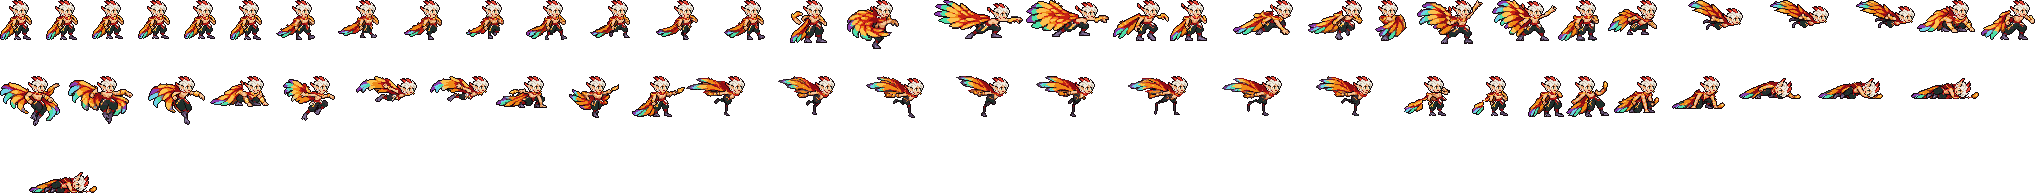
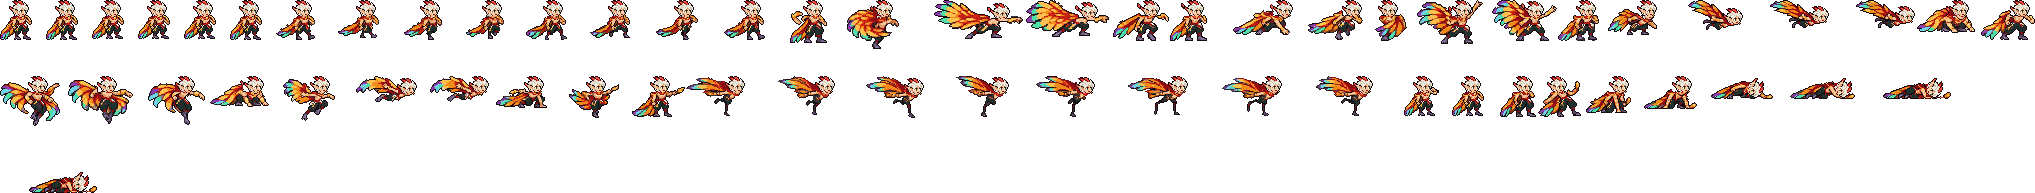
Rakan hit: the idle's body with Codex's raised fist, 1 square back
The re-seated hit still showed Codex's own narrower body and a stick-like cloak beside the
legs (the user: 「这里你真不修吗」, 「身体都变形了」). By the user's rule (a casting body is the
idle's body, only the moved limbs from Codex) both hit frames are the idle: frame 1 trades the
hand and feather at the chin for Codex's raised forearm and fist (shoulder filled), frame 2 is
the idle; both recoil one square.

Changed region(s): [[0.6811, 0.3731, 0.9907, 0.6218]]

diff --git a/tools/art/fix_rakan_strips.py b/tools/art/fix_rakan_strips.py
@@ -34,11 +34,13 @@ stay. Fixes, in order:
      in one column through the run while the body swayed under it - 1-2 squares left of where the idle's collar,
      shoulders and chest sit under the chin, a row lower in 3 frames - so the head is moved onto the body (SEAT, the
      offsets measured per frame against the idle under the chin; tools/art/import_native.py no longer re-steadies
-     the run on the head, which would move the body back). In the hit Codex shifted the whole upper body 5-7 squares
-     right of the legs (the design's own legs, pasted): the body - all but the head and the idle's legs - goes back
-     over the legs where the idle's chest is, and the head where the idle's head is; Codex's arms, fist and cloak
-     move with the body (the cloak flares back from the legs, as Codex drew it). Done first, so the clean-ups below
-     see the moved head.
+     the run on the head, which would move the body back). Done first, so the clean-ups below see the moved head.
+  8. HIT (「受击的时候身体和腿几乎分离」, then 「这里你真不修吗」 on the cloak and 「身体都变形了」): Codex shifted the
+     whole upper body 5-7 squares right of the legs (the design's own legs, pasted) and drew its own narrower body
+     and cloak; moved back over the legs they still read as another, deformed body. By the user's rule (a casting
+     body is the idle's body, only the moved limbs from Codex) the hit frames are the idle: frame 1 with Codex's
+     raised forearm and fist (HIT_ARM, taken after moving Codex's body back over the legs, SEAT) in place of the
+     idle's hand and feather at the chin (HIT_HAND), frame 2 the idle as it is; both 1 square back (HIT_RECOIL).
 --check compares the result with the committed strips instead of writing them; --review DIR writes, per tag, the
 delivery and the fixed frames side by side at 4x with every changed square marked.
 """
@@ -95,17 +97,24 @@ ARMS = {
 # (tag, frame index): {"head": (dx, dy)} moves the pasted head, {"body": (dx, dy)} everything but the head and the idle's
 # own legs (rows LEGS_ROW and lower, columns from LEGS_LEFT left of the pivot, that equal the idle frame's at the same
 # place from the pivot: Codex pasted the design's legs; its cloak beside them is its own, matching here and there by
-# chance). The cloak moves with the body and flares back from the legs as Codex drew it (filling the gap with the idle's
-# own cloak edge stood a stray red-orange strip beside the leg - the user: 「这里是什么？？」).
+# chance)
 SEAT = {
     ("run", 0): {"head": (-1, 0)}, ("run", 1): {"head": (-1, 1)}, ("run", 2): {"head": (-1, 0)},
     ("run", 3): {"head": (0, 1)}, ("run", 4): {"head": (-1, 0)}, ("run", 5): {"head": (-1, 1)},
     ("run", 6): {"head": (-2, 0)}, ("run", 7): {"head": (-2, 0)},
     ("hit", 0): {"body": (-5, 0), "head": (-3, -1)},
-    ("hit", 1): {"body": (-6, 1), "head": (-7, 2)},
 }
 LEGS_ROW = 60
 LEGS_LEFT = 8
+# the hit frames from the idle: (x0, x1, y0, y1) boxes from the pivot (x1, y1 excluded). HIT_HAND: the idle's right hand
+# and the golden feather at the chin, cleared in frame 1; HIT_ARM: Codex's raised forearm and fist (frame 1, moved
+# back over the legs by SEAT) laid in their place
+HIT_HAND = [(3, 12, -13, -8), (3, 12, -8, -3)]
+HIT_ARM = [(2, 14, -17, -9)]
+HIT_RECOIL = -1
+# hit frame 1, after the recoil (cell squares): the shoulder between the idle's chest and Codex's forearm, where the
+# ground showed through (skin, like the Q 4-5 upper arms)
+HIT_PATCH = [(50, 64, "E"), (50, 65, "E"), (51, 64, "H"), (51, 65, "H"), (52, 64, "H"), (52, 65, "G")]
 
 
 def _col(x, ys, ch):
@@ -427,7 +436,27 @@ def build():
                 legs[:, :px - LEGS_LEFT] = False
                 n, hm = fix_seat(f, hm, SEAT[(tag, k)], legs)
                 notes.append(f"seat {SEAT[(tag, k)]} ({n} squares)")
-            if tag != "idle" and hm is not None:
+            if tag == "hit":
+                px, py = cells["tags"][tag][k]["pivot"]
+                ref = np.roll(np.roll(idle[0], py - idle[1][1], 0), px - idle[1][0], 1)
+                g = f.copy()
+                f[:] = ref
+                if k == 0:
+                    for x0, x1, y0, y1 in HIT_HAND:
+                        f[py + y0:py + y1, px + x0:px + x1] = 0
+                    for x0, x1, y0, y1 in HIT_ARM:
+                        box = g[py + y0:py + y1, px + x0:px + x1]
+                        m = box[..., 3] > 0
+                        f[py + y0:py + y1, px + x0:px + x1][m] = box[m]
+                f[:] = np.roll(f, HIT_RECOIL, 1)
+                if k == 0:
+                    for y, x, ch in HIT_PATCH:
+                        f[y, x] = (*LETTERS[ch], 255)
+                hm = np.roll(find_head(ref, head, [(man["idle"]["frames"][0]["head_rect"][0] + px - idle[1][0],
+                                                   man["idle"]["frames"][0]["head_rect"][1] + py - idle[1][1])]),
+                             HIT_RECOIL, 1)
+                notes.append("the idle" + (" + Codex's raised fist" if k == 0 else "") + f", {HIT_RECOIL:+d} back")
+            if tag not in ("idle", "hit") and hm is not None:
                 g = fix_halo(f, hm)
                 if g:
                     notes.append(f"halo -{g}")
@@ -438,11 +467,11 @@ def build():
             if tag == "dead" and hm is not None and k >= 4:
                 gone, n = fix_dead_gap(f, hm, DEAD_CLEAR.get(k, []))
                 notes.append(f"remnant -{gone}, gap +{n}")
-            if tag != "idle":
+            if tag not in ("idle", "hit"):
                 b = fix_black(f)
                 if b:
                     notes.append(f"black -{b}")
-            if tag != "idle":
+            if tag not in ("idle", "hit"):
                 h = fix_holes(f, hm)
                 if h:
                     notes.append(f"holes +{h}")

diff --git a/README.md b/README.md
@@ -2235,7 +2235,7 @@ python tools/art/preview_rakan.py
 
 - 原画和造型：Codex 画了 A（英雄联盟的待机，披风拖在地上）、B（舞者站姿）两张原画，用户先说 B，又改「用A」。Codex 自己删到 40 行的两版删掉了脸和披风上的 12 行 9 列（眼睛挤扁、披风变短），改用它的生图草稿：按自己的格子读回是 52 × 39 格，按区域删整行整列（冠羽 7 → 4 行，发顶到下巴 13 → 12 行，眉眼嘴的行和脸的列不删）到 40 × 32；颜色按 CIELAB 归到 Codex 的色板。
 - 动作参考（`poses.json`）：镜头 yaw 60、pitch 20，镜像；头 2.2 倍、腿 0.85 倍；高度 41，112 × 88 的格子；只藏玫瑰（`Rakan_Base_Rose_Mat`：`pose_ref.py` 的 `--hide-submeshes` 会把他的羽毛披风 `Rakan_Base_Wing_Mat` 也藏掉）。待机 `Rakan_Idle01`，移动 `Rakan_Run`（8 帧 × 100 ms），普攻 `Attack1`（第 3 帧甩出，第 12 tick），Q `Spell1`（第 4 帧，第 10 tick），W 冲刺 4 帧，W 落地旋升 `W_activate` 6 帧 × 67 ms（第 3 帧击飞，第 8 tick），E 3 帧，E 落地 `E_to_Idle` 3 帧，R `Spell4_Run` 8 帧 × 107 ms，死亡 `Death` 8 帧。
-- 动作的修复（`fix_rakan_strips.py`，Codex 的交付留在 [`codex_strips/`](assets/source/rakan/codex_strips/)）：Codex 把造型的头贴在它自己画的头上，头旁边露出它自己的耳尖和头发（播放时一闪一闪），这些碎块去掉；后颈和披风、高领之间透出地面的三角补成高领的深红；Q 第 4、5 帧举到脸边的前臂没有上臂（手悬空），补上从肩到肘的上臂；R 冲刺的腿照英雄联盟画得又细又黑，宽度不动，纯黑的腿条里填上绑腿色，膝下补两格待机和移动都有的红带，后大腿 3 行厚的黑块中间填裤子色；死亡第 5–8 帧倒下的头旁边立着 Codex 原来那只头的耳朵和头发（像一根小棍），去掉，头和肩之间 1–3 格的缝补成高领的深红。用户在游戏里看到两处：「移动的时候头和身体不协调」——Codex 把移动 8 帧的头钉在同一列，身体在下面晃，比待机时下巴和高领的相对位置偏左 1–2 格、有 3 帧低一行，按每帧量出的偏移把头挪回身体上（导入时移动不再按头对齐，头跟着身体走）；「受击的时候身体和腿几乎分离」——Codex 把受击 2 帧的整个上身往右推了 5–7 格，腿是贴上去的造型原腿，上身挪回待机时在腿上的位置，头回到待机的位置，它画的抬拳和披风跟着上身走，披风照它画的从背后往左后方甩开（用待机同一处的披风边补缝时，腿边多出一条红橙色的竖条，用户：「这里是什么？？」，去掉）。
+- 动作的修复（`fix_rakan_strips.py`，Codex 的交付留在 [`codex_strips/`](assets/source/rakan/codex_strips/)）：Codex 把造型的头贴在它自己画的头上，头旁边露出它自己的耳尖和头发（播放时一闪一闪），这些碎块去掉；后颈和披风、高领之间透出地面的三角补成高领的深红；Q 第 4、5 帧举到脸边的前臂没有上臂（手悬空），补上从肩到肘的上臂；R 冲刺的腿照英雄联盟画得又细又黑，宽度不动，纯黑的腿条里填上绑腿色，膝下补两格待机和移动都有的红带，后大腿 3 行厚的黑块中间填裤子色；死亡第 5–8 帧倒下的头旁边立着 Codex 原来那只头的耳朵和头发（像一根小棍），去掉，头和肩之间 1–3 格的缝补成高领的深红。用户在游戏里看到两处：「移动的时候头和身体不协调」——Codex 把移动 8 帧的头钉在同一列，身体在下面晃，比待机时下巴和高领的相对位置偏左 1–2 格、有 3 帧低一行，按每帧量出的偏移把头挪回身体上（导入时移动不再按头对齐，头跟着身体走）；「受击的时候身体和腿几乎分离」——Codex 把受击 2 帧的整个上身往右推了 5–7 格，腿是贴上去的造型原腿，它自己画的身体和披风也更窄；挪回腿上以后披风像一根棍子斜插在旁边（「这里你真不修吗」），身体也不像待机的身体（「身体都变形了」）。按「施法的身体用待机的身体，只有动的肢体取 Codex 的」：受击两帧都是待机本身，第 1 帧把下巴边的右手和金羽毛换成 Codex 画的抬起来挡在脸前的前臂和拳头（肩膀补 6 格皮肤），第 2 帧手回到下巴边；两帧整体往后退 1 格。
 - 导入：待机 6 帧同一张；呼吸的接缝在膝下红带下面（披风斜着拖到地上，别的行都会切到披风的斜边），呼吸时靴子短一行。描边补齐（`COMPLETE`），补描边时在羽毛、手和头发之间封出的一格透底（21 个）填成描边色（`PLUG`）。
 - 特效用 Codex 画的 15 张（79 帧，生图原稿），`import_rakan.py --raw` 同凯隐：每个游戏像素取覆盖的原稿像素里最多的颜色，颜色归到包里给每张的色带——金、虹彩（青蓝紫）、治疗的黄绿、魅惑的爱心——光效外圈最暗的一档去掉；E 的护盾、护盾持续、W 的旋升和击飞里 Codex 用不透明的深棕色填的辉光去掉（不然叠在队友身上是一块深红）。大小按技能范围：Q 的治疗放出时椭圆 84 格宽（治疗半径 40000）；W 的旋升 Codex 画成细高的柱子，按高度缩只有 12 格宽、画在他身后会被挡住，宽高分开缩：地面的圈 26 格（击飞半径 12000）、柱高 44 格；被动护盾 34 × 46 格、画在他身后（画在前面时护罩的边从他脸上穿过）；魅惑的爱心 6 格，往上飘的距离缩到原稿的 45%。英雄联盟的 R 地上没有圈：R 的加速 buff 画身后金、青、紫三条波浪光带（buff 画面跟着朝向翻转，往左跑时光带在右边），碰撞圈不画。待发治疗的光圈画在脚下（`z` −1）。
 
